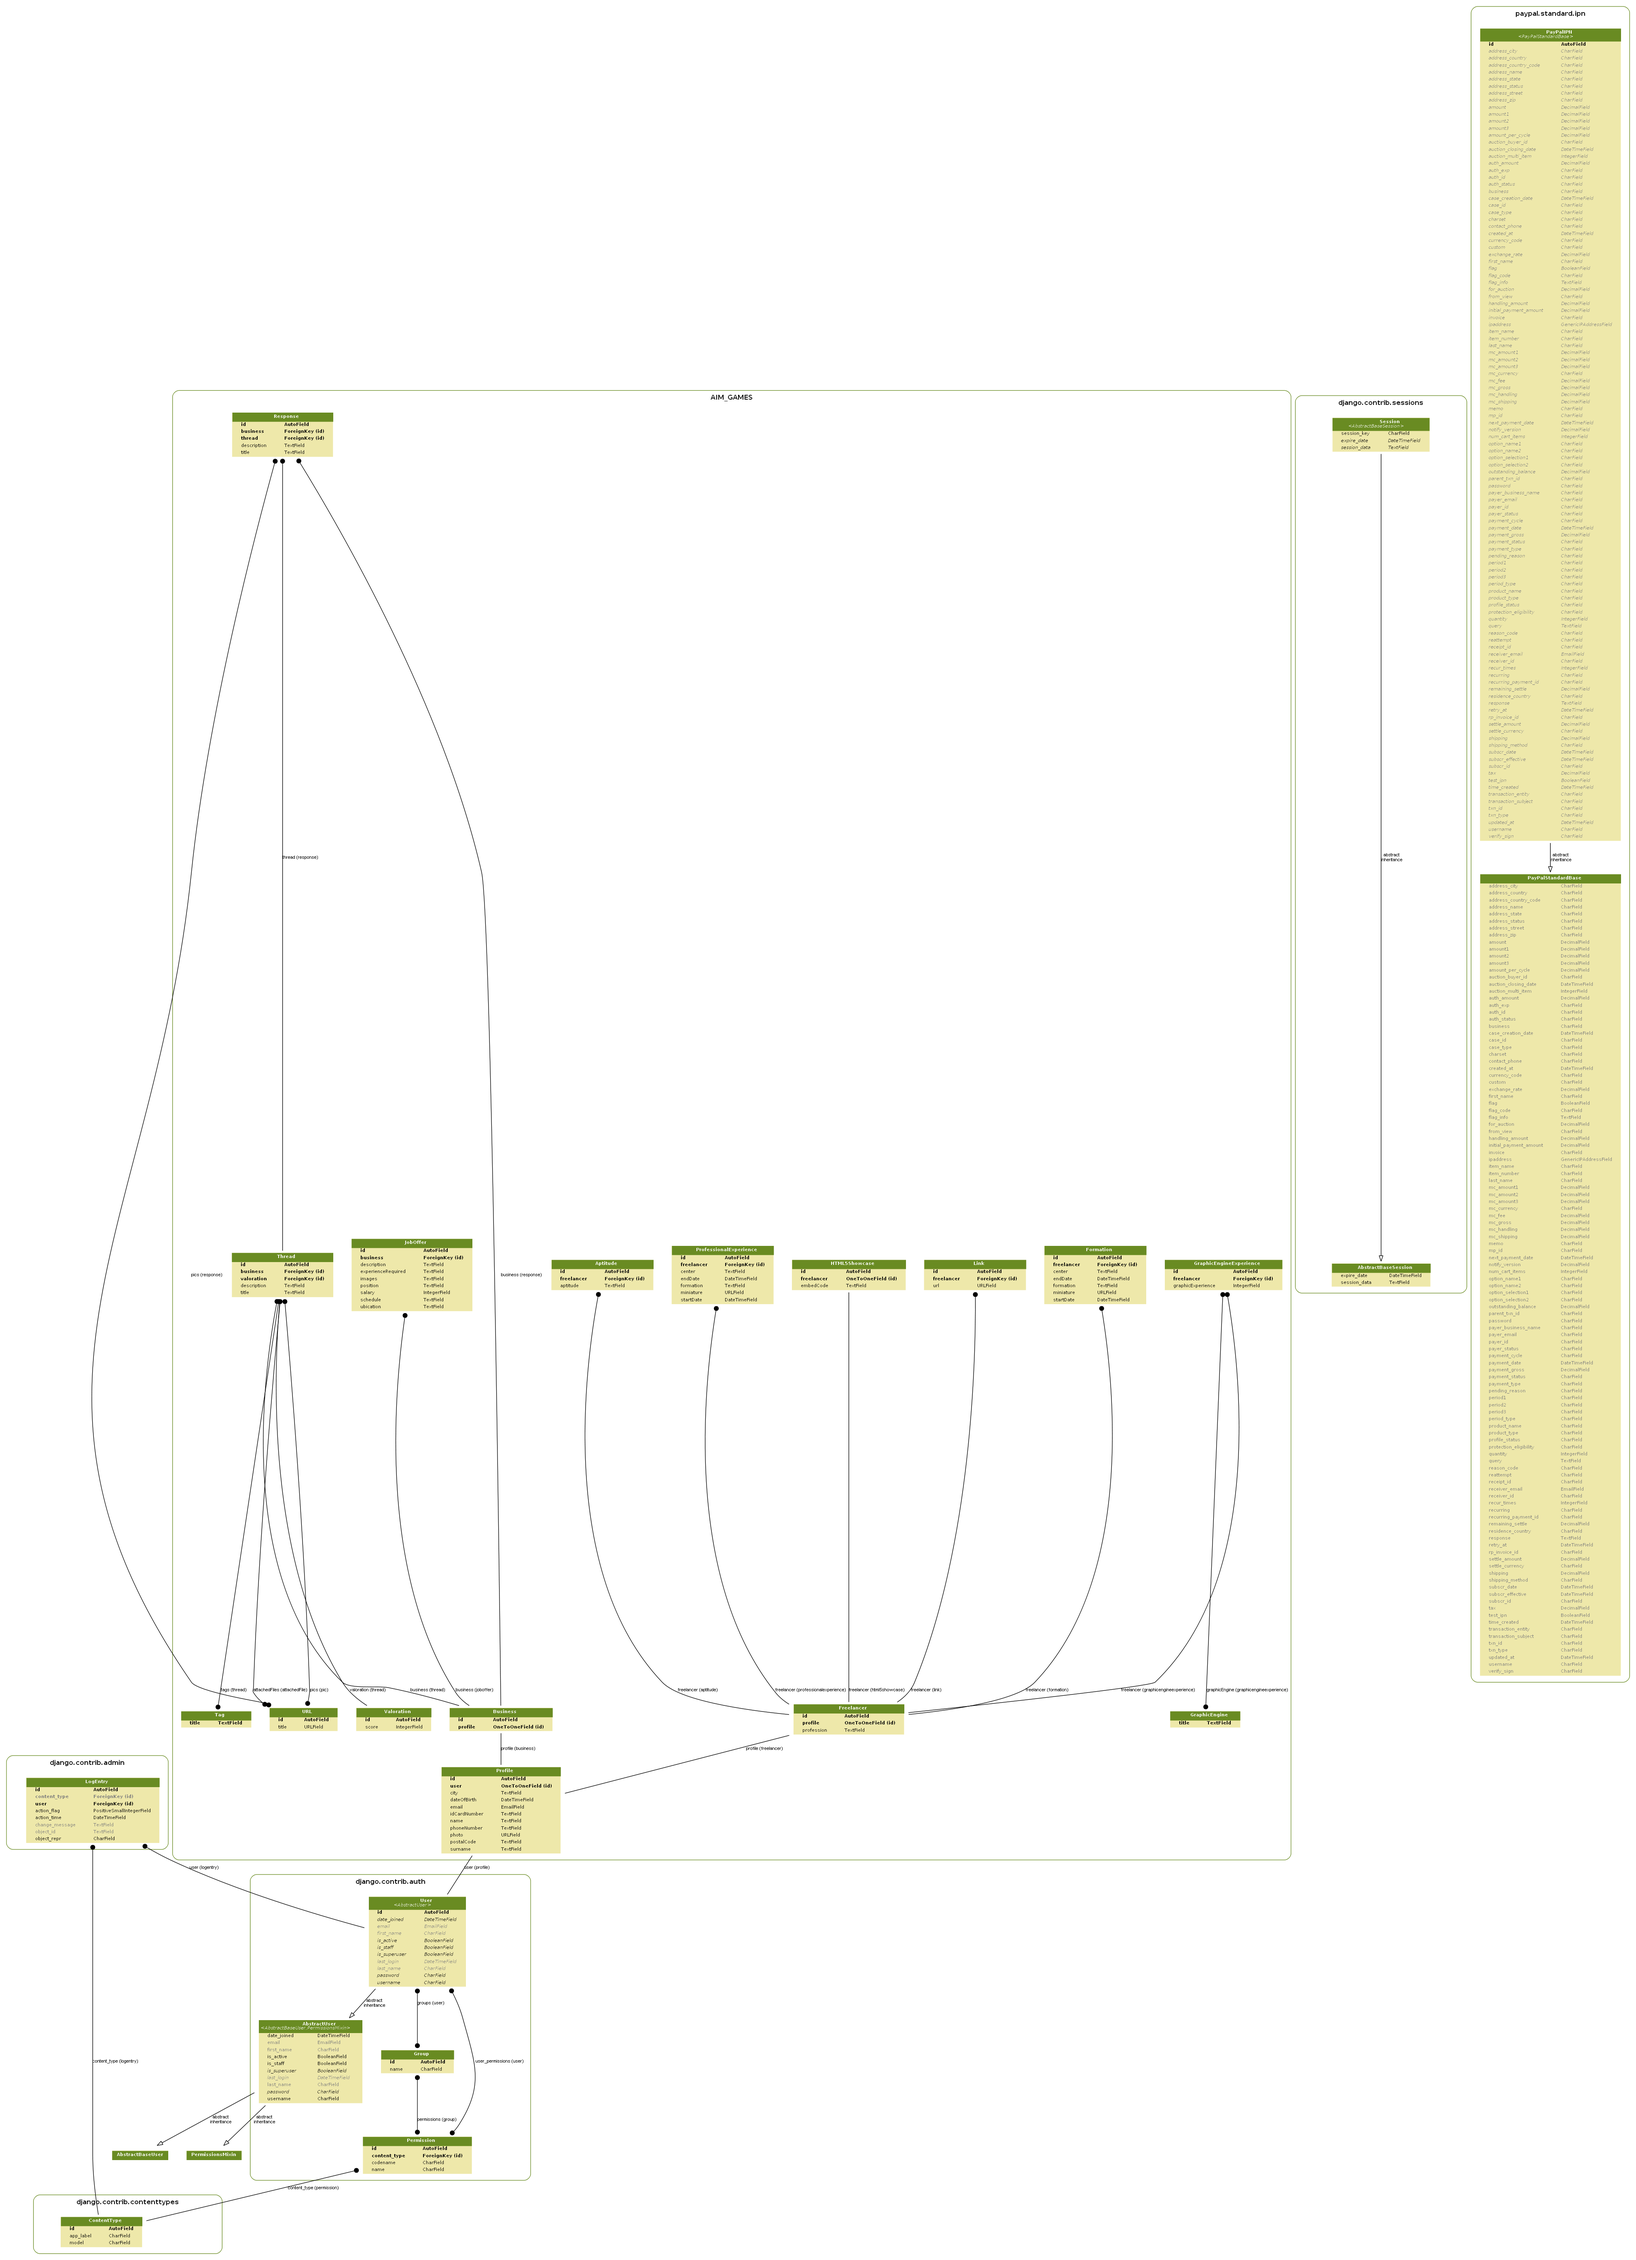
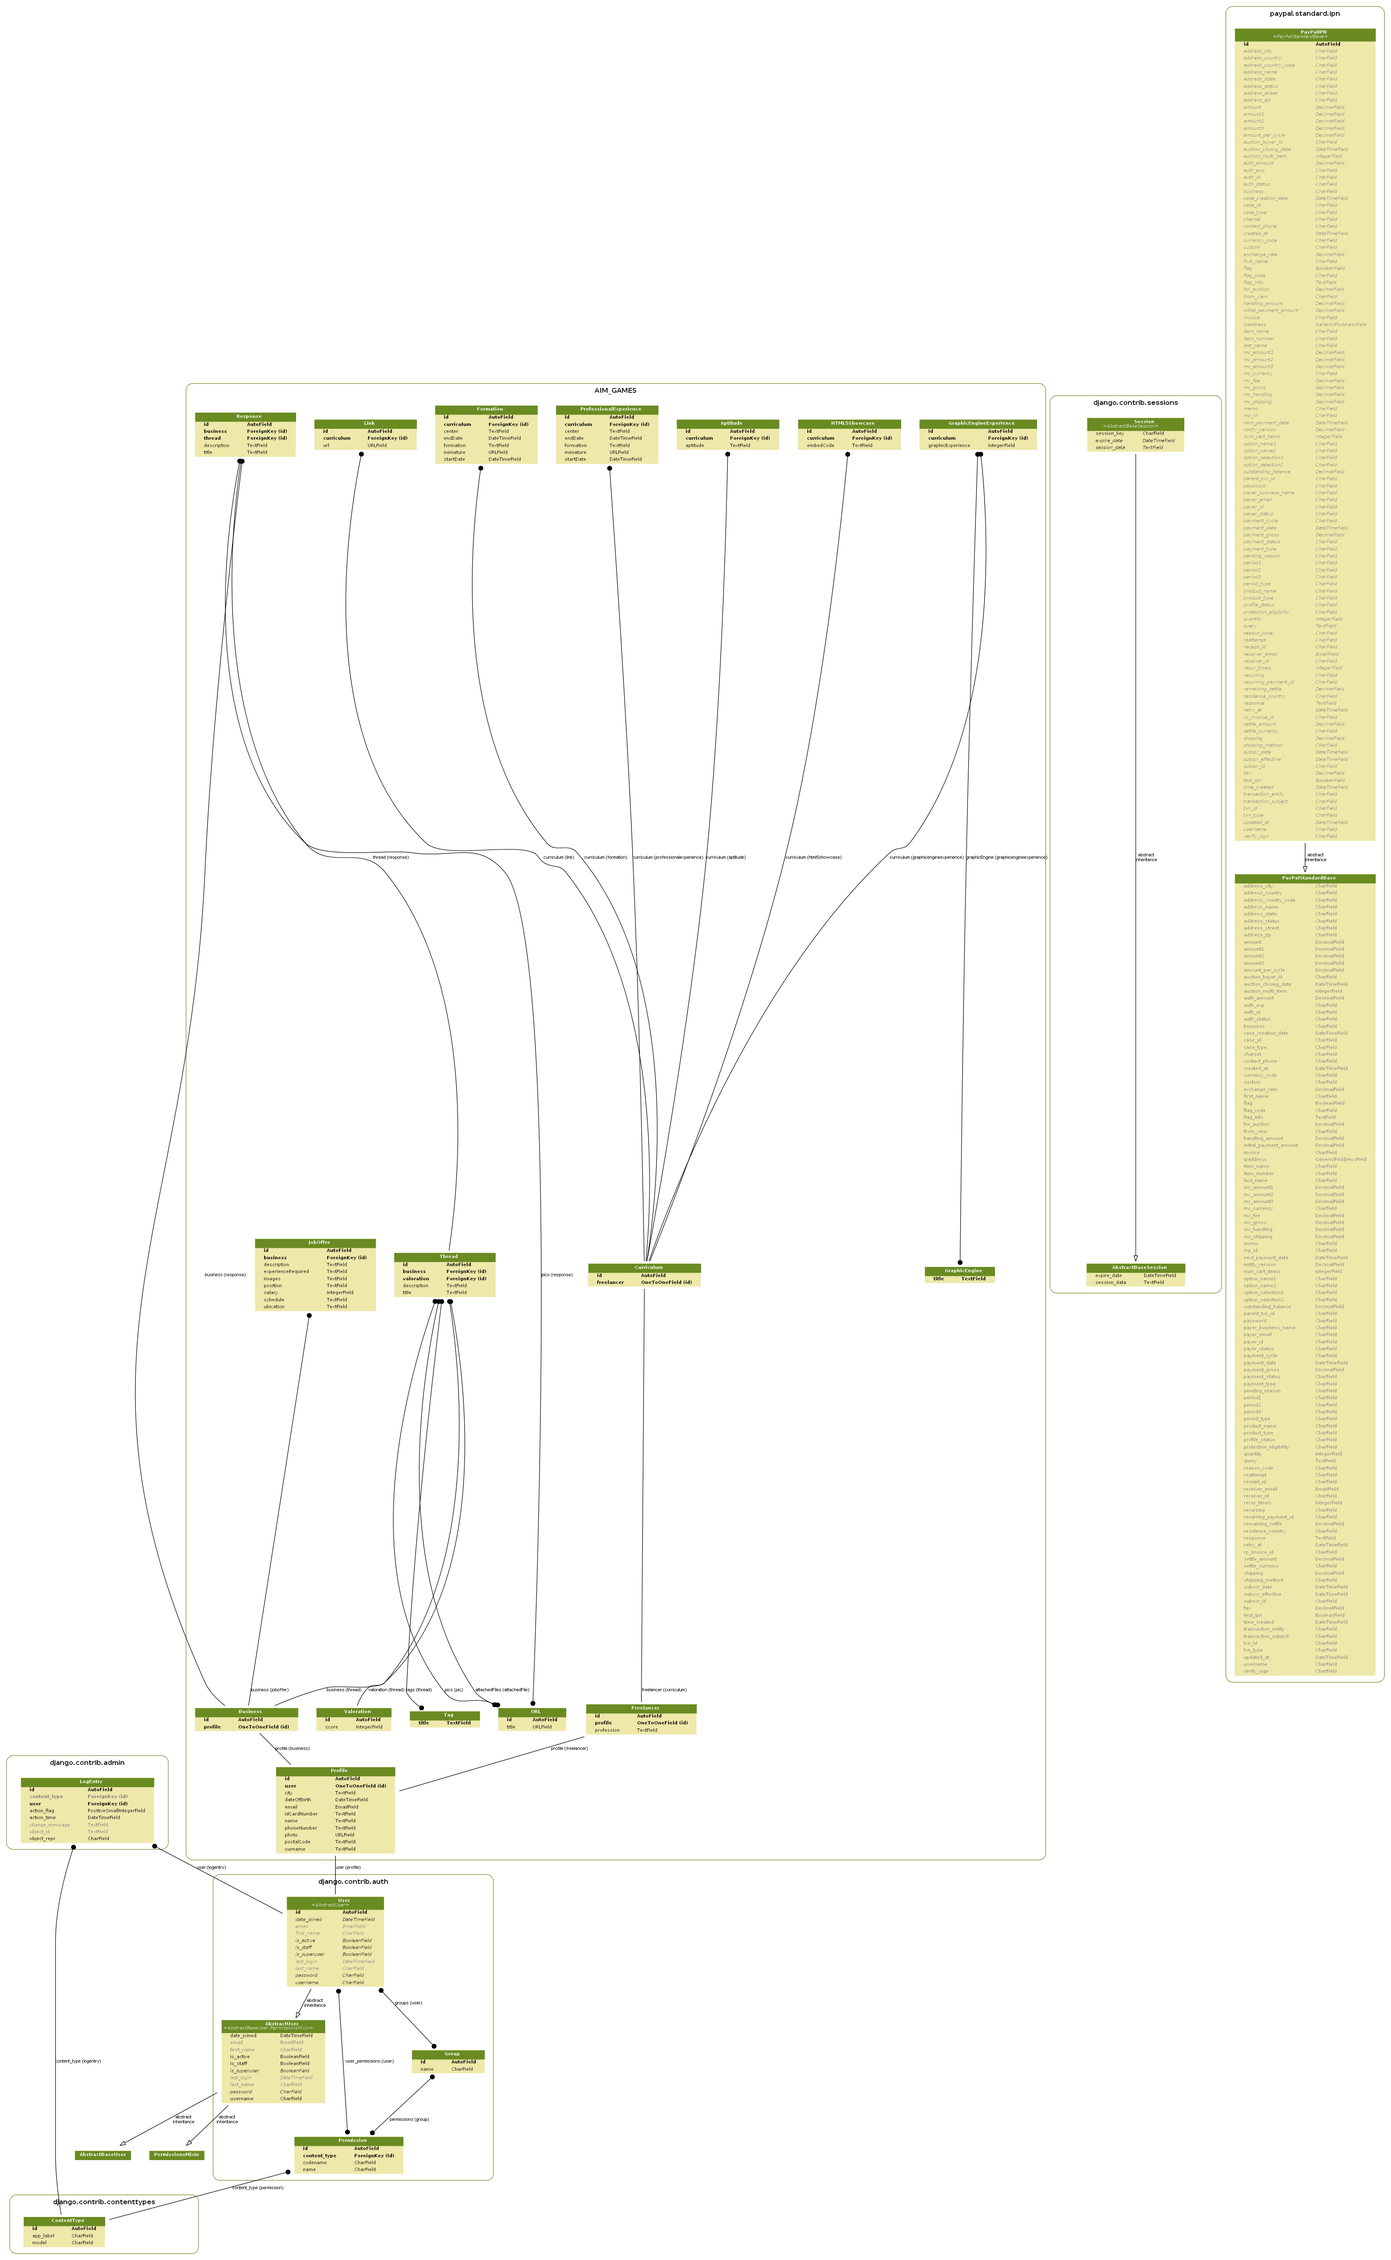
Curriculum object

diff --git a/AIM_GAMES_PLATFORM/AIM_GAMES/models.py b/AIM_GAMES_PLATFORM/AIM_GAMES/models.py
@@ -70,10 +70,11 @@ class Business(models.Model):
         return self.profile.email
 
 # Freelancer objects
-
+class Curriculum(models.Model):
+    freelancer = models.OneToOneField(Freelancer, on_delete=models.CASCADE)
 
 class ProfessionalExperience(models.Model):
-    freelancer = models.ForeignKey(Freelancer, on_delete=models.CASCADE)
+    curriculum = models.ForeignKey(Curriculum, on_delete=models.CASCADE)
     center = models.TextField(max_length=50, blank=False)
     formation = models.TextField(max_length=100, blank=False)
     startDate = models.DateTimeField(null=False)
@@ -82,7 +83,7 @@ class ProfessionalExperience(models.Model):
 
 
 class Formation(models.Model):
-    freelancer = models.ForeignKey(Freelancer, on_delete=models.CASCADE)
+    curriculum = models.ForeignKey(Curriculum, on_delete=models.CASCADE)
     center = models.TextField(max_length=50, blank=False)
     formation = models.TextField(max_length=100, blank=False)
     startDate = models.DateTimeField(null=False)
@@ -91,7 +92,7 @@ class Formation(models.Model):
 
 
 class GraphicEngineExperience(models.Model):
-    freelancer = models.ForeignKey(Freelancer, on_delete=models.CASCADE)
+    curriculum = models.ForeignKey(Curriculum, on_delete=models.CASCADE)
     graphicEngine = models.ManyToManyField(
         GraphicEngine)
     graphicExperience = models.IntegerField(
@@ -99,17 +100,17 @@ class GraphicEngineExperience(models.Model):
 
 
 class HTML5Showcase(models.Model):
-    freelancer = models.OneToOneField(Freelancer, on_delete=models.CASCADE)
+    curriculum = models.ForeignKey(Curriculum, on_delete=models.CASCADE)
     embedCode = models.TextField()
 
 
 class Aptitude(models.Model):
-    freelancer = models.ForeignKey(Freelancer, on_delete=models.CASCADE)
+    curriculum = models.ForeignKey(Curriculum, on_delete=models.CASCADE)
     aptitude = models.TextField(max_length=30, blank=False)
 
 
 class Link(models.Model):
-    freelancer = models.ForeignKey(Freelancer, on_delete=models.CASCADE)
+    curriculum = models.ForeignKey(Curriculum, on_delete=models.CASCADE)
     url = models.URLField(blank=False)
 
 # Business objects

diff --git a/AIM_GAMES_PLATFORM/AIM_GAMES/views.py b/AIM_GAMES_PLATFORM/AIM_GAMES/views.py
@@ -44,7 +44,7 @@ def loginRedir(request):
         res = redirect('admin/')
     else:
         res = redirect('accounts/login/')
-    return res;
+    return res
 
 
 class FreelancerView(FormView):
